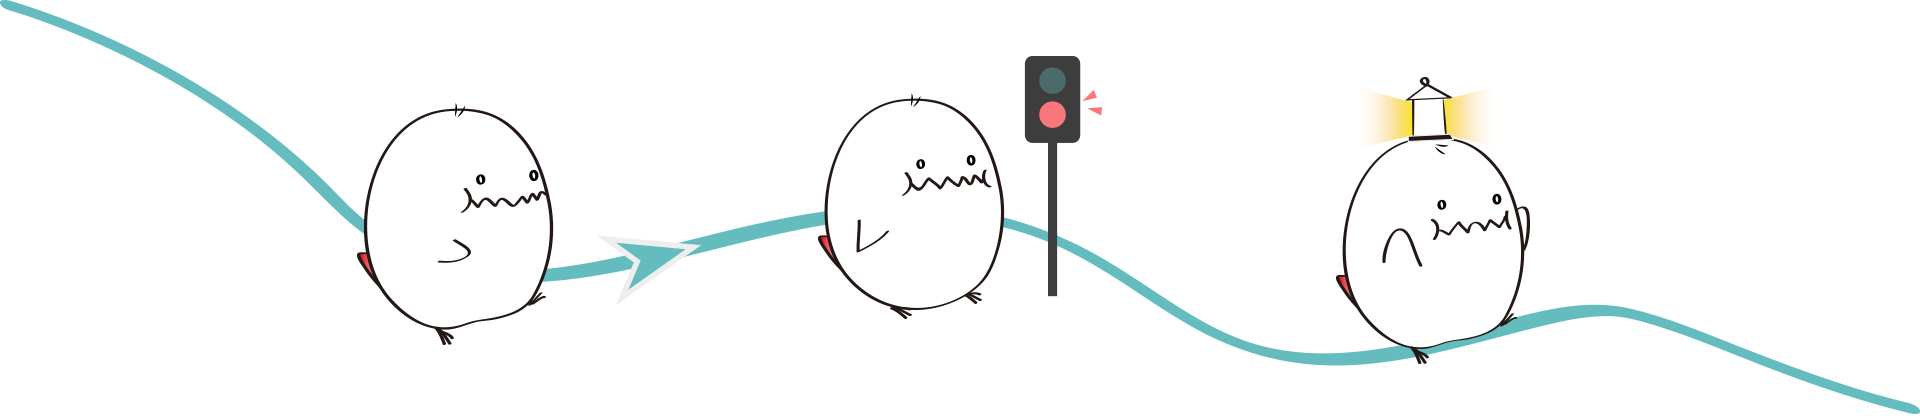
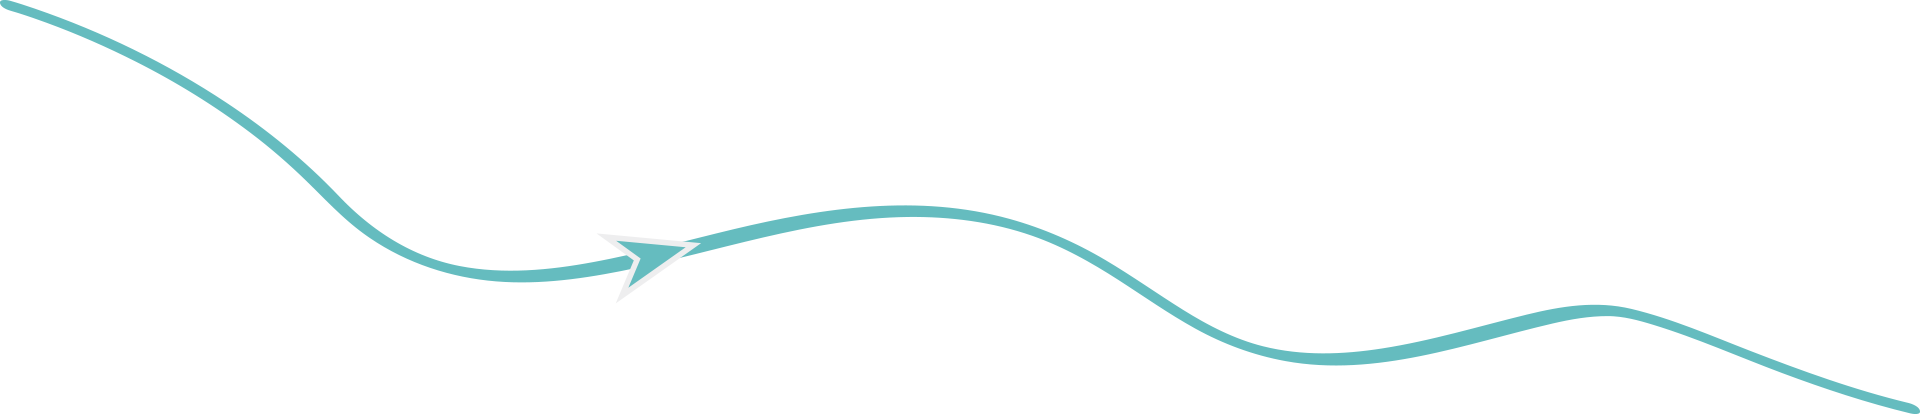
index

diff --git a/index.html b/index.html
@@ -153,7 +153,7 @@
                 <img src="image/text.png" alt="" style="min-width:280px;width:35%;position:absolute;left:23%;top: 30vmin;">
                 <img src="image/item0.png" alt="" style="margin-top:50vmin;min-width:230px;min-height:138px;height:15vw;width:24.4vw ;">
             </div>
-            <h3 class="index-text">♔最受歡迎的優秀策略</h3>
+            <h3 class="index-text" style="margin-top:30px">♔最受歡迎的優秀策略</h3>
 
             <div class="col">
                 <div class="row justify-content-center">
@@ -1095,25 +1095,48 @@
         </div>
     </header>
     <!-- Page Content -->
-    <div class="container-fiuld" style="background-color: #EEEEEE;">
-        <div class="row justify-content-center">
-            <h3 class="index-text">Bellykit 能做什麼？</h3>
-            <img src="image/index-2.png" alt="Areyou?" style="height:22vw;width: 100vw;">
-            <div class="row justify-content-center" style="max-width:100vw">
-                <div class="col-4" style="max-width: 330px;">
-                    <h5 class="index-text">為有錢想投資自己未來的人，找一條通往財富自由的捷徑！</h5>
-                </div>
-                <div class="col-4" style="max-width: 330px;">
-                    <h5 class="index-text">為站在投資市場邊迷惘的人，找一個穩健安全的投資方向！</h5>
-                </div>
-                <div class="col-4" style="max-width: 330px;">
-                    <h5 class="index-text">為曾經在投資市場失利的人，找一盞重拾信心的獲利明燈！</h5>
+    <div class="container-fiuld" style="background-color: #EEEEEE">
+        <h3 class="index-text" style="margin-bottom: 30px;">Bellykit 能做什麼？</h3>
+        <div class="col road">
+            <div class="row justify-content-center">
+                <div class="row" style="max-width: 1400px;width: 100%; ;">
+                    <div class="col-4">
+                        <div class="row justify-content-center">
+                            <img src="image/index-2-3.png" alt="" style="width: 53.2%;margin-top:2vw">
+                        </div>
+                    </div>
+                    <div class="col-4">
+                        <div class="row justify-content-center">
+                            <img src="image/index-2-2.png" alt="" style="width: 76.7%">
+                        </div>
+                    </div>
+                    <div class="col-4">
+                        <div class="row justify-content-center">
+                            <img src="image/index-2-1.png" alt="" style="width: 52.4%;margin-top:3vw">
+                        </div>
+                    </div>
                 </div>
             </div>
-
-
+            <div class="row justify-content-center">
+                <div class="row" style="max-width: 1400px;width: 100%;margin-top:2vw">
+                    <div class="col-4">
+                        <div class="row justify-content-center">
+                            <h5 class="index-text" style="max-width: 300px;">為有錢想投資自己未來的人，找一條通往財富自由的捷徑！</h5>
+                        </div>
+                    </div>
+                    <div class="col-4">
+                        <div class="row justify-content-center">
+                            <h5 class="index-text" style="max-width: 300px;">為站在投資市場邊迷惘的人，找一個穩健安全的投資方向！</h5>
+                        </div>
+                    </div>
+                    <div class="col-4">
+                        <div class="row justify-content-center">
+                            <h5 class="index-text" style="max-width: 300px;">為曾經在投資市場失利的人，找一盞重拾信心的獲利明燈！</h5>
+                        </div>
+                    </div>
+                </div>
+            </div>
         </div>
-
     </div>
     <div class="container-fiuld" style="background-color: #EEEEEE; margin-top:50px">
         <div class="row" style="min-height:600px;position: relative;">

diff --git a/css/index.css b/css/index.css
@@ -12,19 +12,33 @@
 
 @media (max-width: 460px) {
     html {
-        font-size: 8pt;
+        font-size: 10pt;
     }
 }
 
 @media (max-width: 640px) {
     html {
-        font-size: 10pt;
+        font-size: 12pt;
     }
 }
 
 @media (min-width:641px) {
     html {
-        font-size: 16pt;
+        font-size: 14pt;
+    }
+}
+
+.col.road {
+    background-image: url(../image/index-2.png);
+    background-repeat: no-repeat;
+    background-size: 100vw 21.6vw;
+}
+
+@media (min-width:1920px) {
+    .col.road {
+        background-image: url(../image/index-2.png);
+        background-repeat: no-repeat;
+        background-size: 100vw 400px;
     }
 }
 
@@ -97,6 +111,10 @@ body {
     .popup {
         width: 70%;
     }
+}
+
+.nav-link {
+    font-size: 1.2rem;
 }
 
 .row {

diff --git a/css/dashboard.css b/css/dashboard.css
@@ -38,6 +38,10 @@
     background-color: #f8777d;
 }
 
+.active p {
+    color: white;
+}
+
 .sidebar1,
 .sidebar2 {
     padding-left: 50px;
